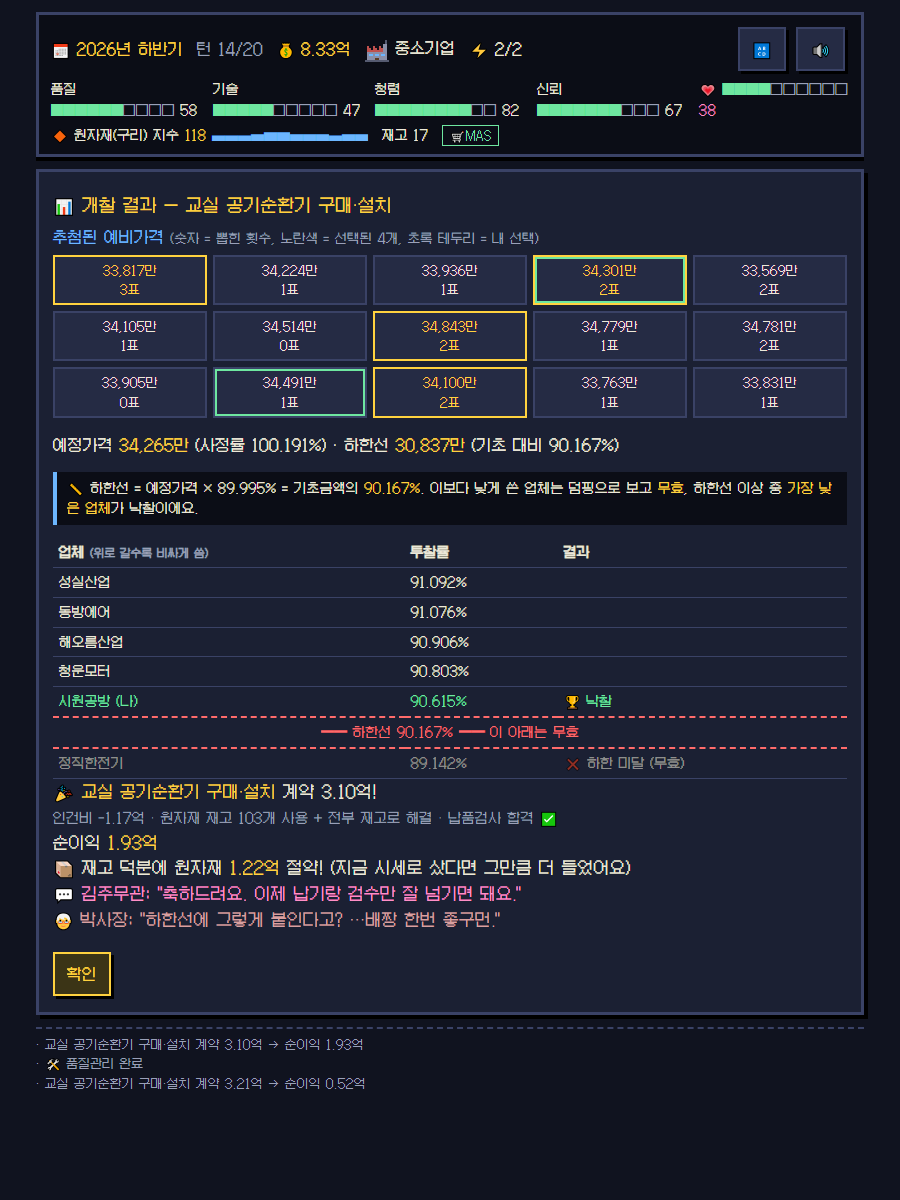
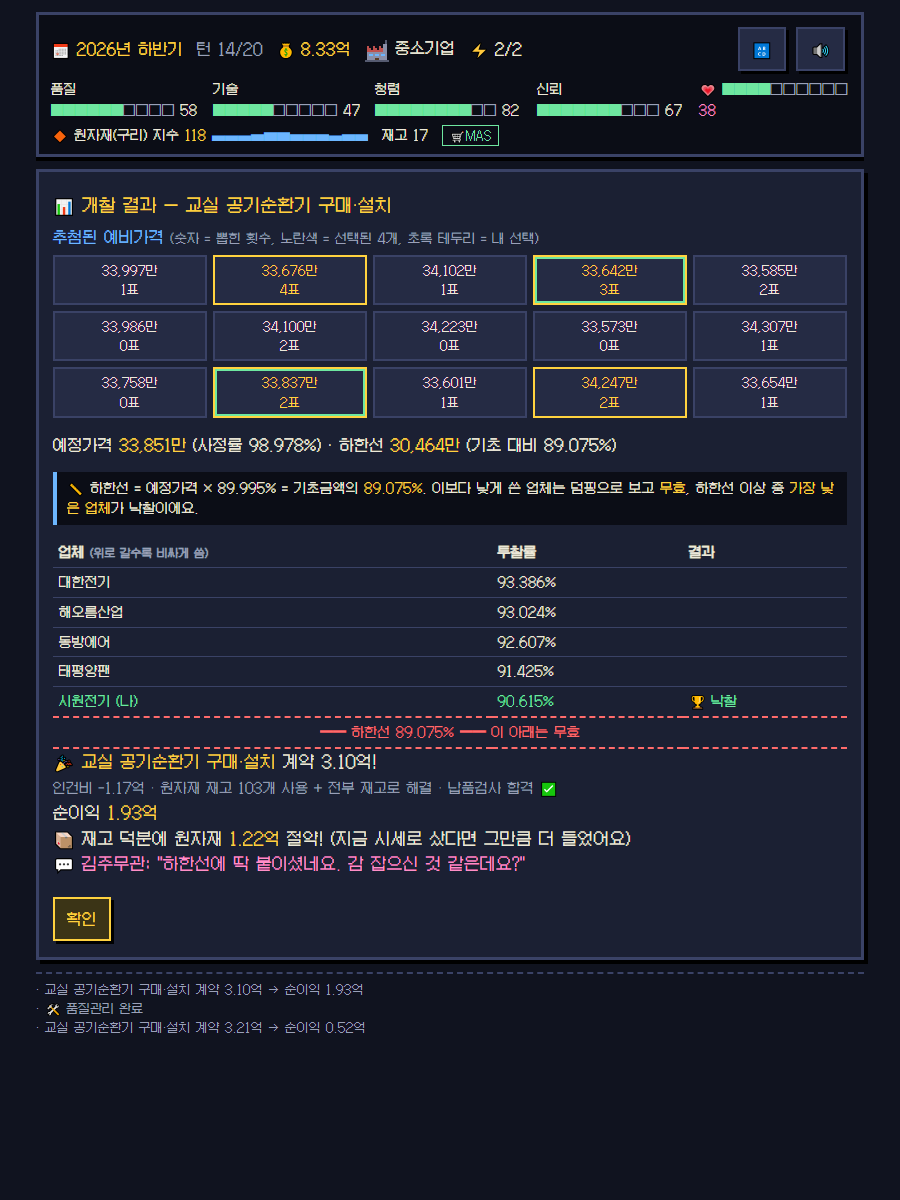
Default company name 시원공방 → 시원전기

diff --git a/index.html b/index.html
@@ -213,7 +213,7 @@ const ENDS={
 
 // ---------- 상태 ----------
 let S=null;
-function newGame(name){S={name:name||'시원공방',turn:0,dpc:false,cash:2,q:25,t:20,integ:70,rep:20,aff:0,affStage:0,romance:null,stock:0,mat:100,matHist:[100],release:0,rev:[],halfRev:0,tier:0,grace:0,graceUsed:false,disguise:false,warned:false,wins:0,total:0,mas:false,excellent:false,innov:false,global:false,green:false,collusion:0,aiAudit:false,innovReq:75,recT:0,polUsed:{},notices:[],ap:2,bidDone:false,log:[]}}
+function newGame(name){S={name:name||'시원전기',turn:0,dpc:false,cash:2,q:25,t:20,integ:70,rep:20,aff:0,affStage:0,romance:null,stock:0,mat:100,matHist:[100],release:0,rev:[],halfRev:0,tier:0,grace:0,graceUsed:false,disguise:false,warned:false,wins:0,total:0,mas:false,excellent:false,innov:false,global:false,green:false,collusion:0,aiAudit:false,innovReq:75,recT:0,polUsed:{},notices:[],ap:2,bidDone:false,log:[]}}
 const isSME=()=>S.tier<=1||S.grace>0||S.disguise;
 // 적격심사 점수 = 품질 + 신인도 가점(신뢰÷10, 최대 +10)
 const qScore=()=>Math.round(S.q+S.rep/10);
@@ -272,7 +272,7 @@ function title(){S=null;const sv=store.get('pps_save',null),cnt=(o,t)=>[Object.k
  <div class="progs">${prog('🏆 엔딩',cnt(col.end,ENDS))}${prog('📖 조달도감',cnt(col.dict,DICT))}${prog('📘 정책도감',cnt(col.pol,POL))}${prog('🎖 칭호',cnt(col.ach,ACH))}</div></div>
  <p class="foot">2026 조달청 AI 게임·콘텐츠 공모전 출품작 · AI(Claude)를 활용해 제작<br>등장하는 기관·업체·인물과 2027년 이후 사건은 가상이며, 제도는 게임용으로 단순화했어요.<br>선풍기 같은 소액 물품은 실제론 종합쇼핑몰·학교장터(S2B)에서 많이 사요. 게임에선 입찰 체험을 위해 공고로 만들었어요.</p>`,false)}
 function nameStep(){const go=()=>{newGame(document.getElementById('nm').value.trim());intro()};
- render(()=>dlg('sys','📝 <b>나라장터 업체 등록</b><br>사장님 회사 이름을 입력해 주세요.<br><input id="nm" class="nm-in" maxlength="10" value="시원공방">',B('등록하기 ▶',go,'pri')+' '+B('◀ 처음으로',title)),false);
+ render(()=>dlg('sys','📝 <b>나라장터 업체 등록</b><br>사장님 회사 이름을 입력해 주세요.<br><input id="nm" class="nm-in" maxlength="10" value="시원전기">',B('등록하기 ▶',go,'pri')+' '+B('◀ 처음으로',title)),false);
  const el=document.getElementById('nm');el.focus();el.select();el.onkeydown=e=>{if(e.key==='Enter')go()}}
 function help(){render(()=>`<section class="panel"><h2>❓ 게임 방법</h2>
  <p>🌀 당신은 작은 선풍기 공장 사장님. <b>2020년부터 2029년까지(20턴, 1턴=반기)</b> 공공조달로 회사를 키우세요.</p>

diff --git a/tools/make-record.js b/tools/make-record.js
@@ -6,7 +6,7 @@ const scenes = `
 // ---------- 녹화용 장면 ----------
 const DEMO=true;
 try{localStorage.removeItem('pps_save')}catch(e){}
-function demoState(){newGame('시원공방');Object.assign(S,{turn:12,cash:6.4,q:62,t:55,integ:84,rep:66,aff:30,spark:true,affStage:1,tier:1,tierMax:1,wins:8,total:24,stock:150,mas:true,dpc:true,mat:112,matHist:[100,96,104,125,150,141,128,122,117,112,108,112],sajung:[1.0042,.9968,1.0011,.9987,1.0023],lastOffer:12,talks:5});
+function demoState(){newGame('시원전기');Object.assign(S,{turn:12,cash:6.4,q:62,t:55,integ:84,rep:66,aff:30,spark:true,affStage:1,tier:1,tierMax:1,wins:8,total:24,stock:150,mas:true,dpc:true,mat:112,matHist:[100,96,104,125,150,141,128,122,117,112,108,112],sajung:[1.0042,.9968,1.0011,.9987,1.0023],lastOffer:12,talks:5});
  S.log=['교실 공기순환기 구매·설치 계약 3.21억 → 순이익 0.52억','🛠 품질관리 완료'];
  S.notices=[{type:'sme',item:'교실 공기순환기 구매·설치',ag:'한빛시 교육청',base:3.42,comp:9},{type:'general',item:'체육관 대형 공기순환기 구매·설치',ag:'은하구 국립대학교',base:8.7,comp:11},{type:'sme',item:'무더위쉼터 서큘레이터 구매',ag:'솔내군 시청',base:1.85,comp:6}]}
 // 투찰하면 하한선에 칼같이 붙여 낙찰되는 결과가 나올 때까지 다시 추첨 (녹화용)
